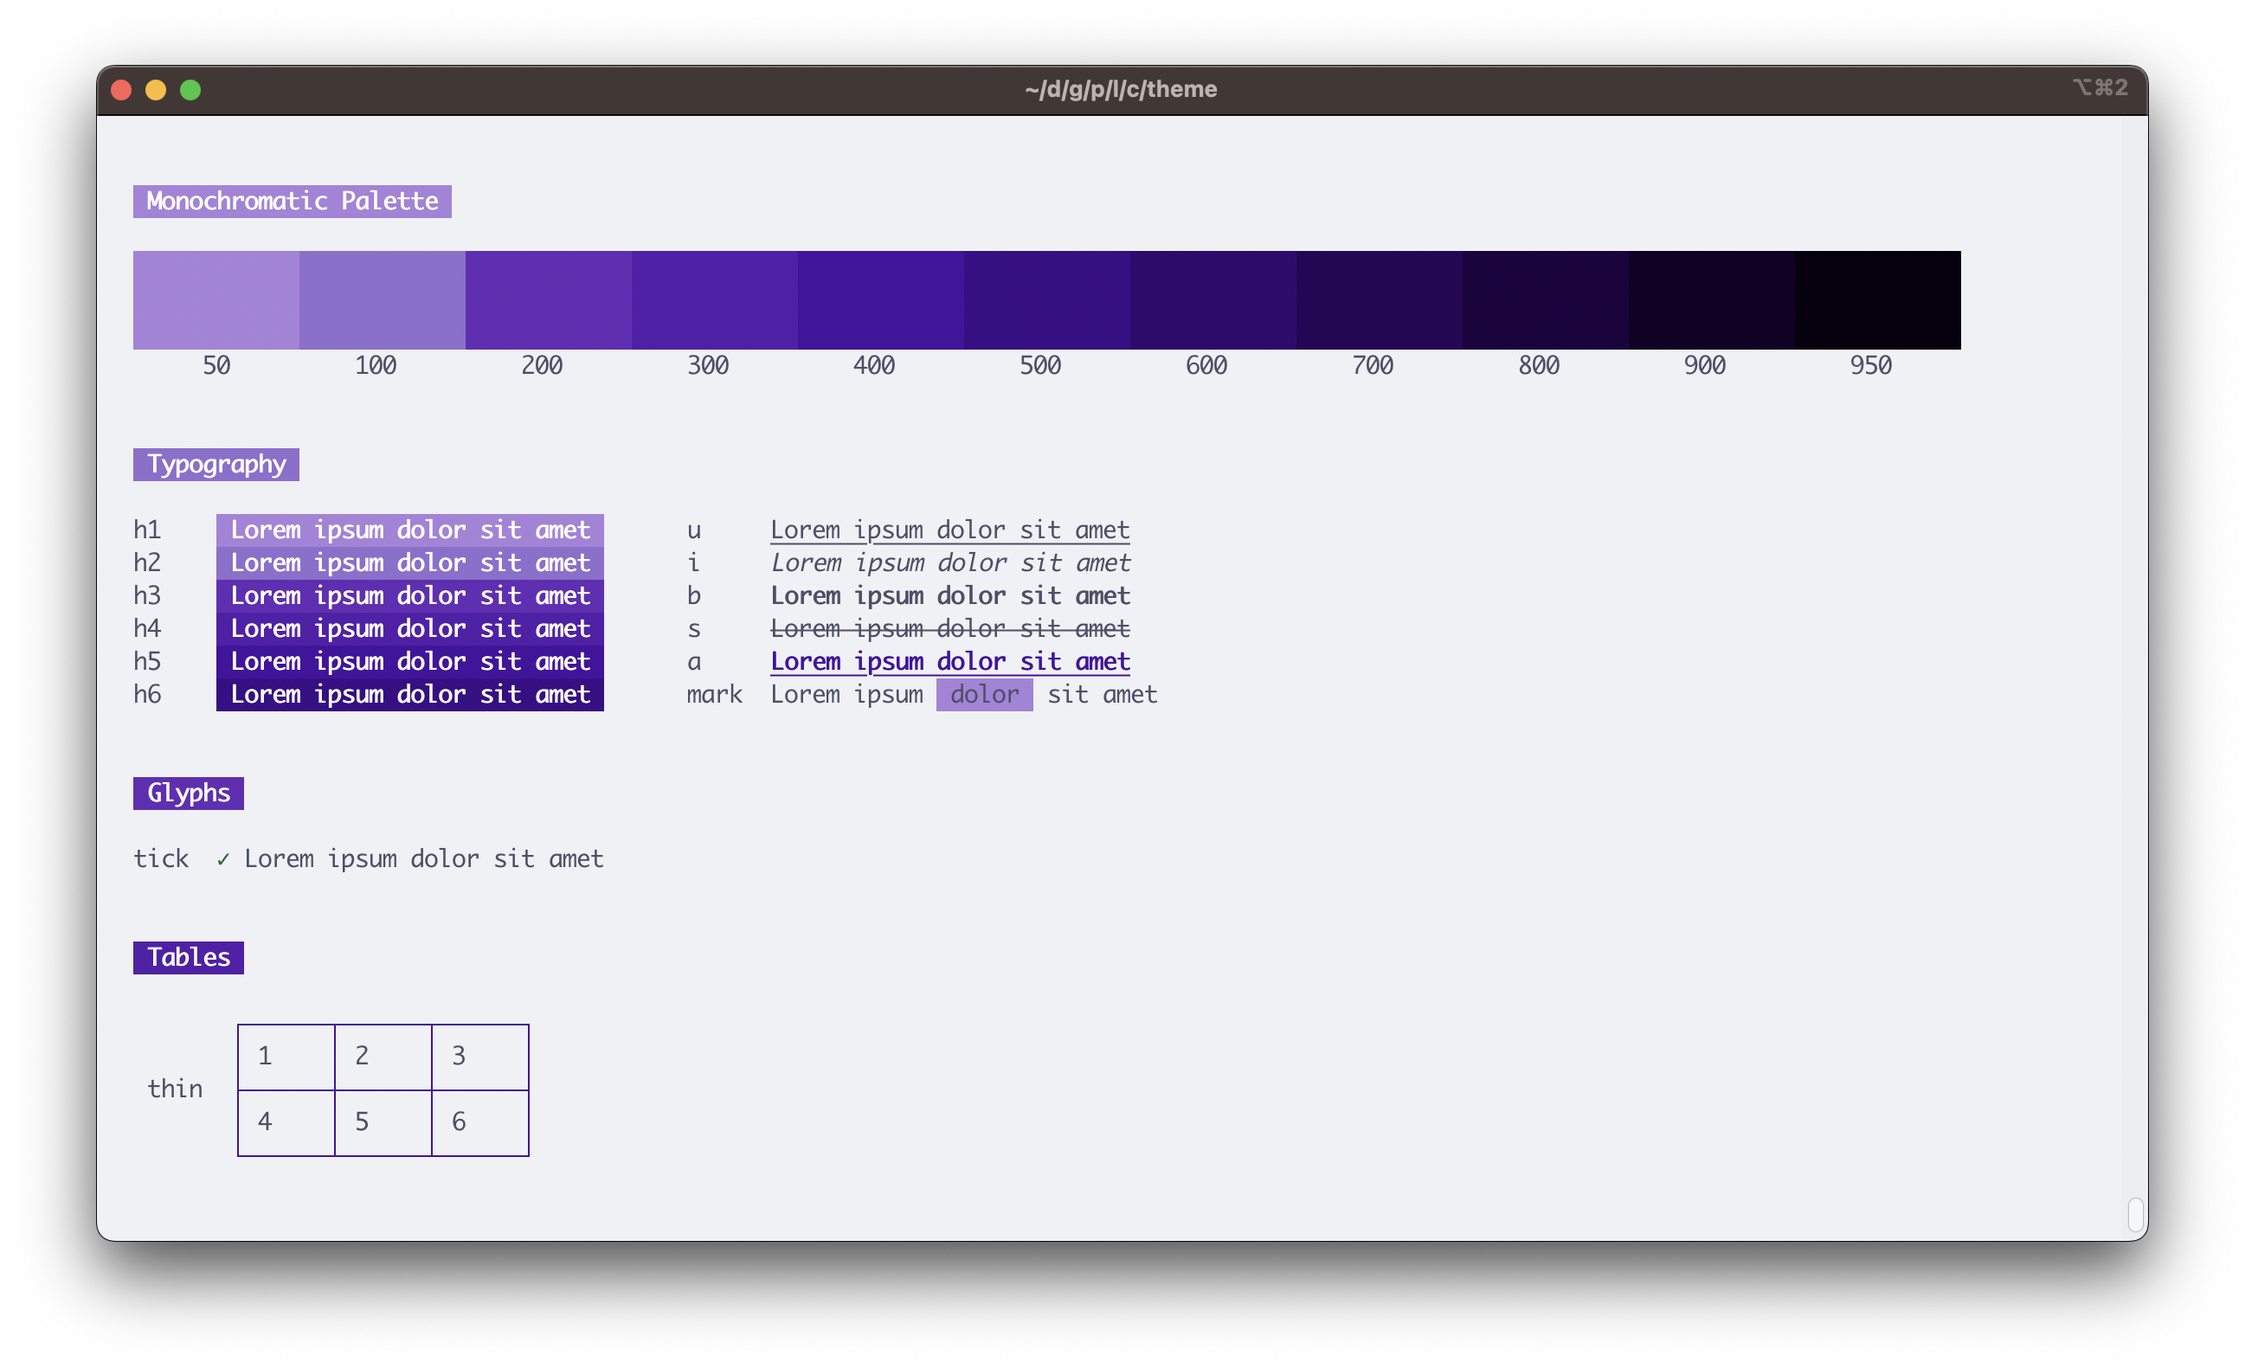
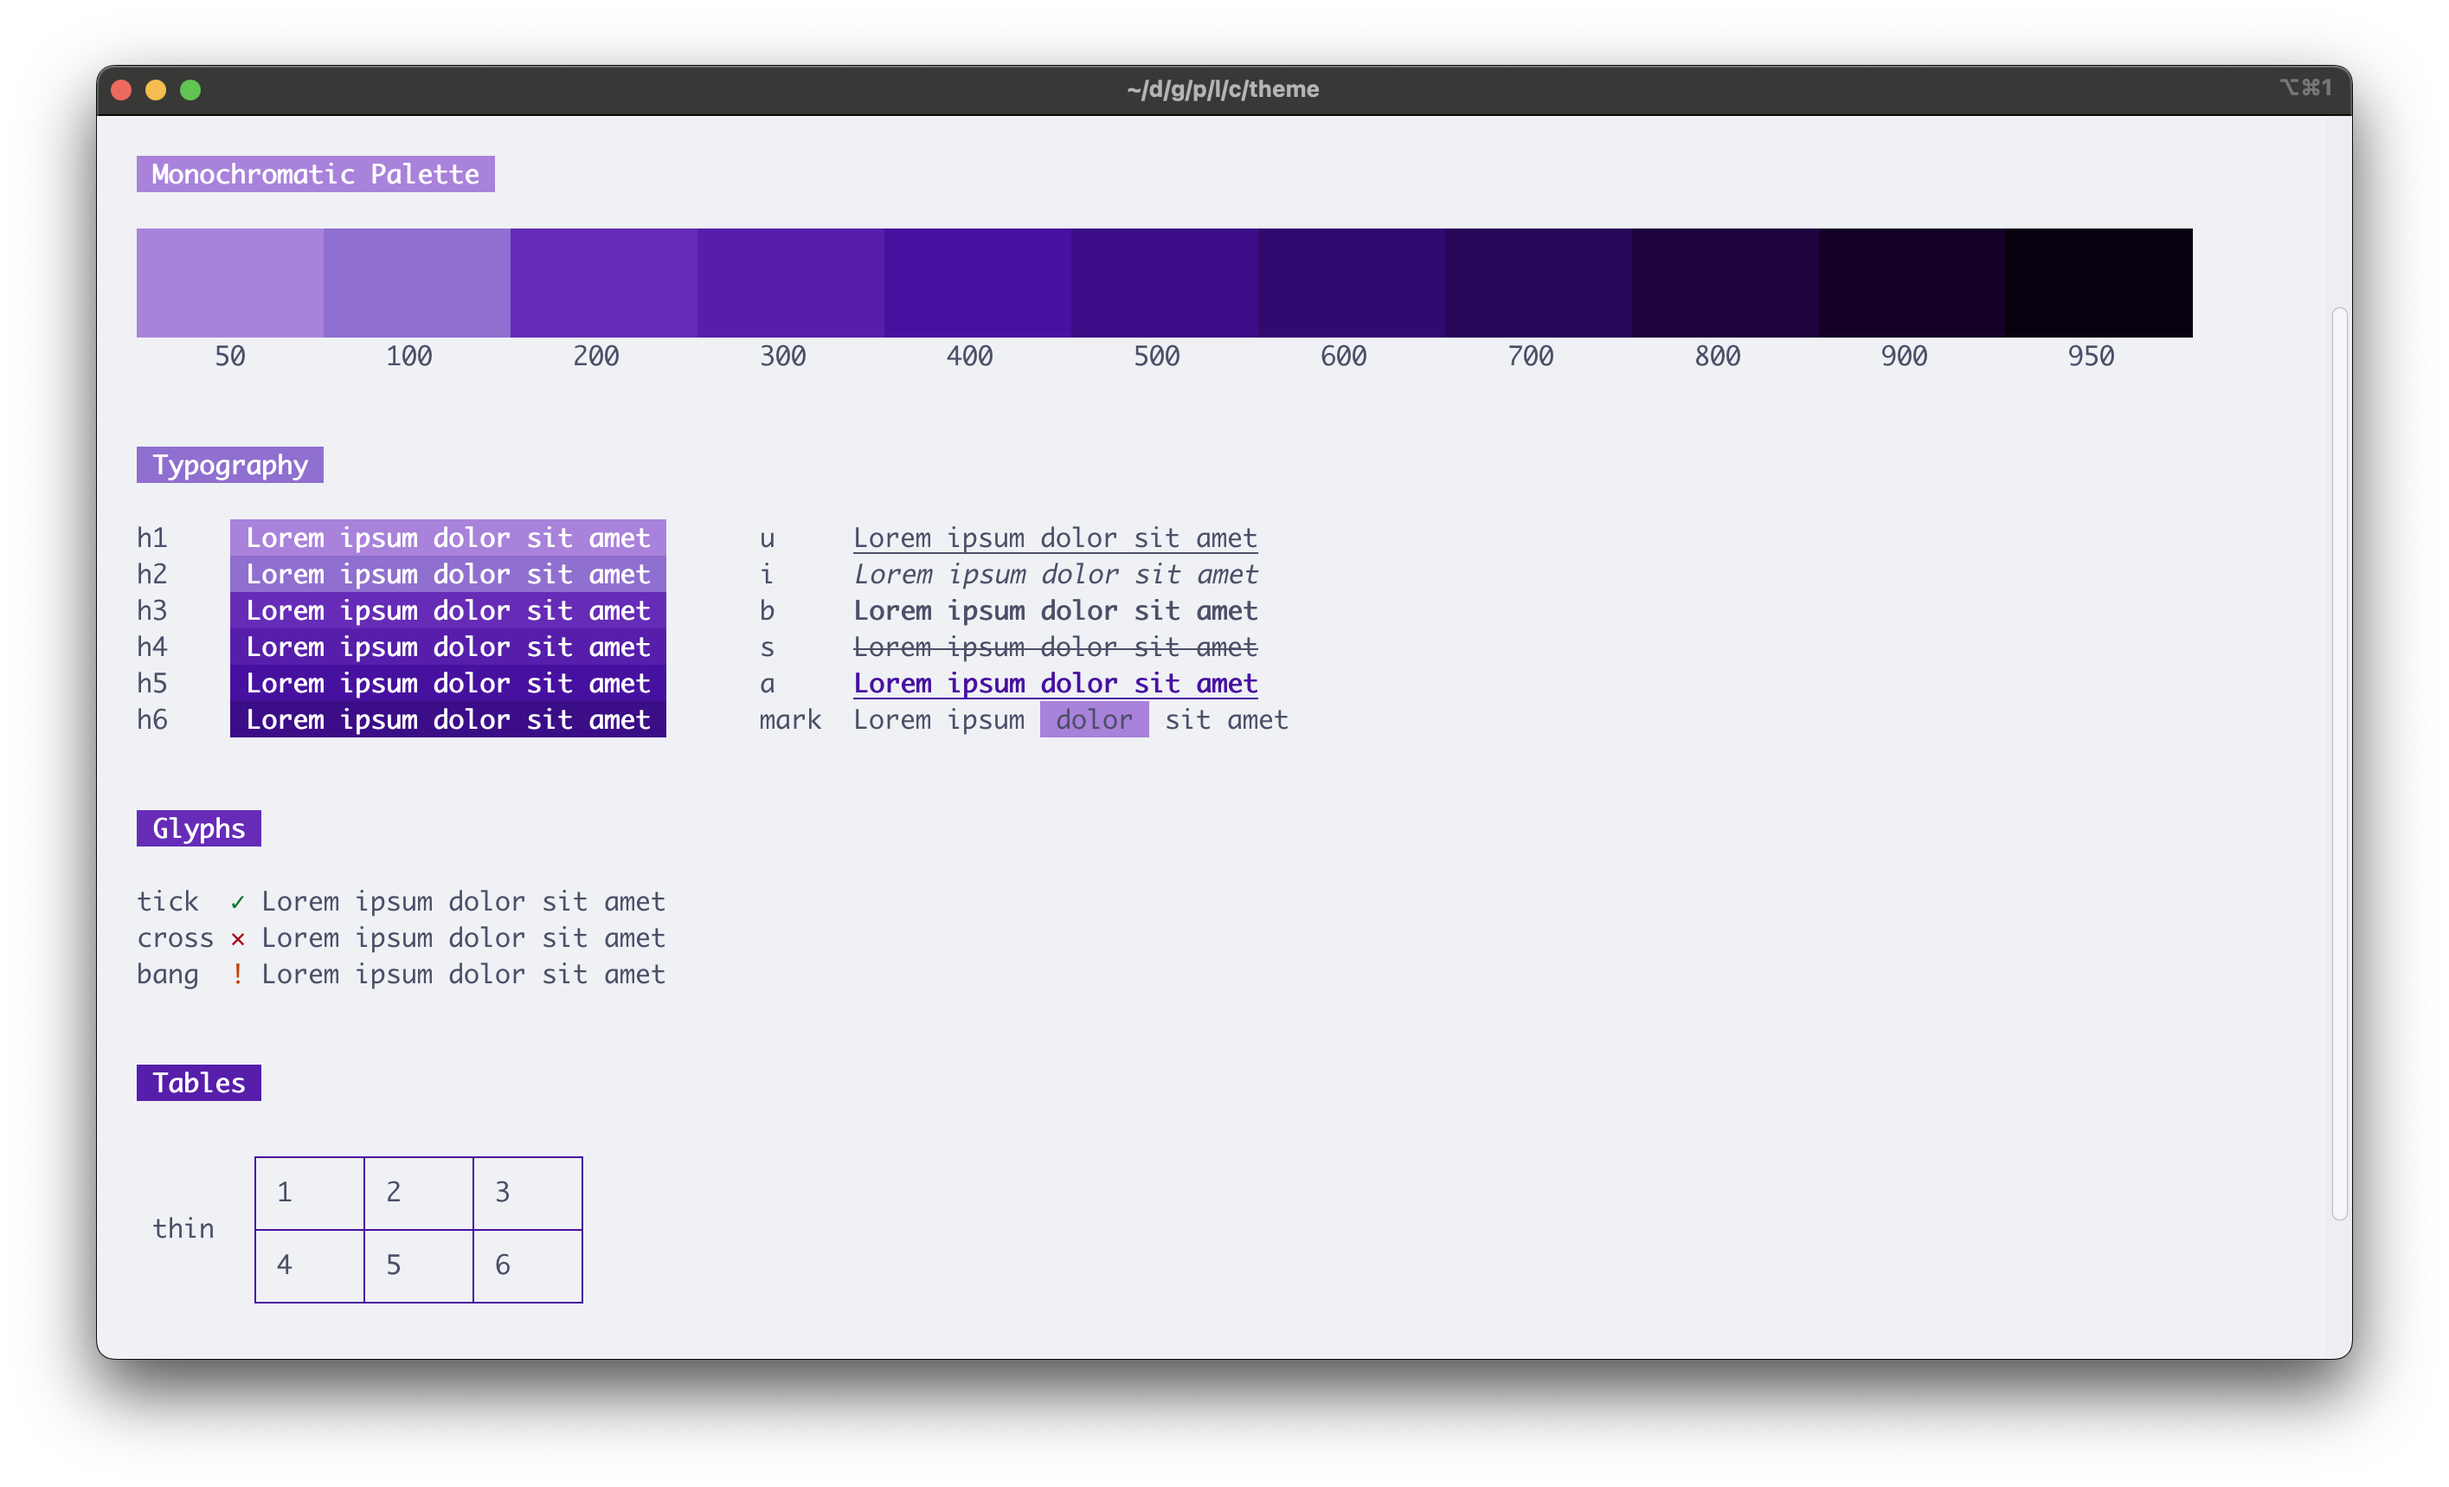
docs: update screenshots and add theme footnotes in readme

Changed region(s): [[0.0312, 0.031, 0.968, 0.9292], [0.3123, 0.3407, 0.5308, 0.5265]]

diff --git a/README.md b/README.md
@@ -6,6 +6,10 @@ A lipgloss theme designed to give a consistent look and feel across all PurpleCl
 
 ![Dark Terminal Support](./images/dark-terminal.png)
 
+[_Catppuccin Macchiato_]
+
 ## Light
 
 ![Light Terminal Support](./images/light-terminal.png)
+
+[_Catppuccin Latte_]
